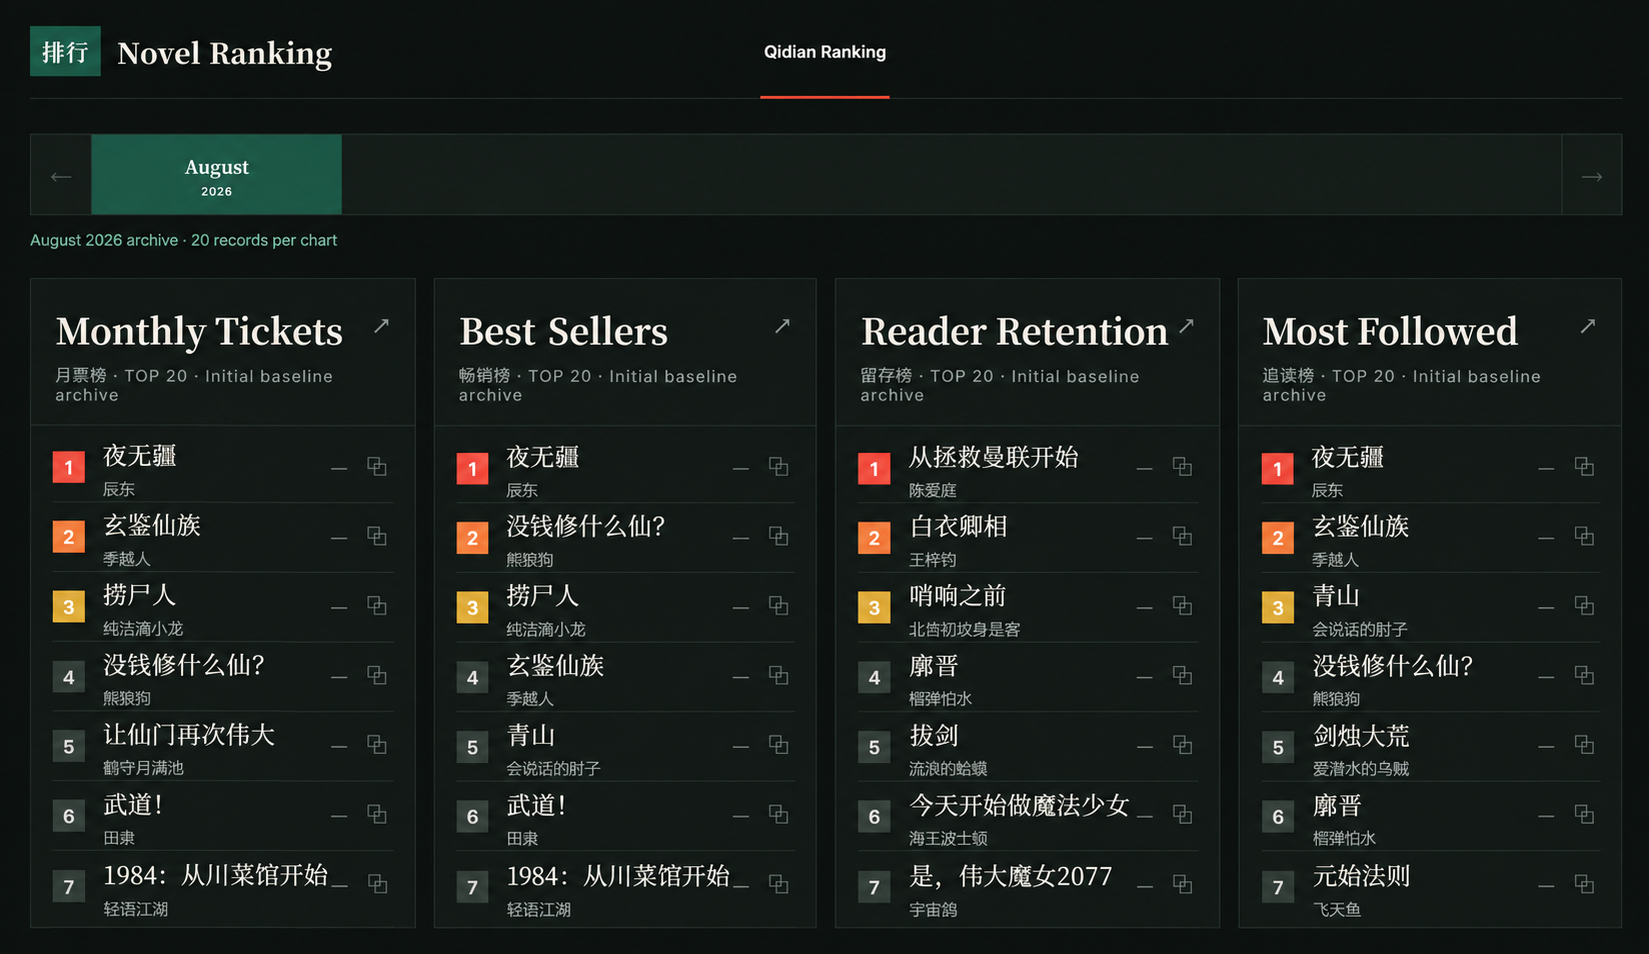
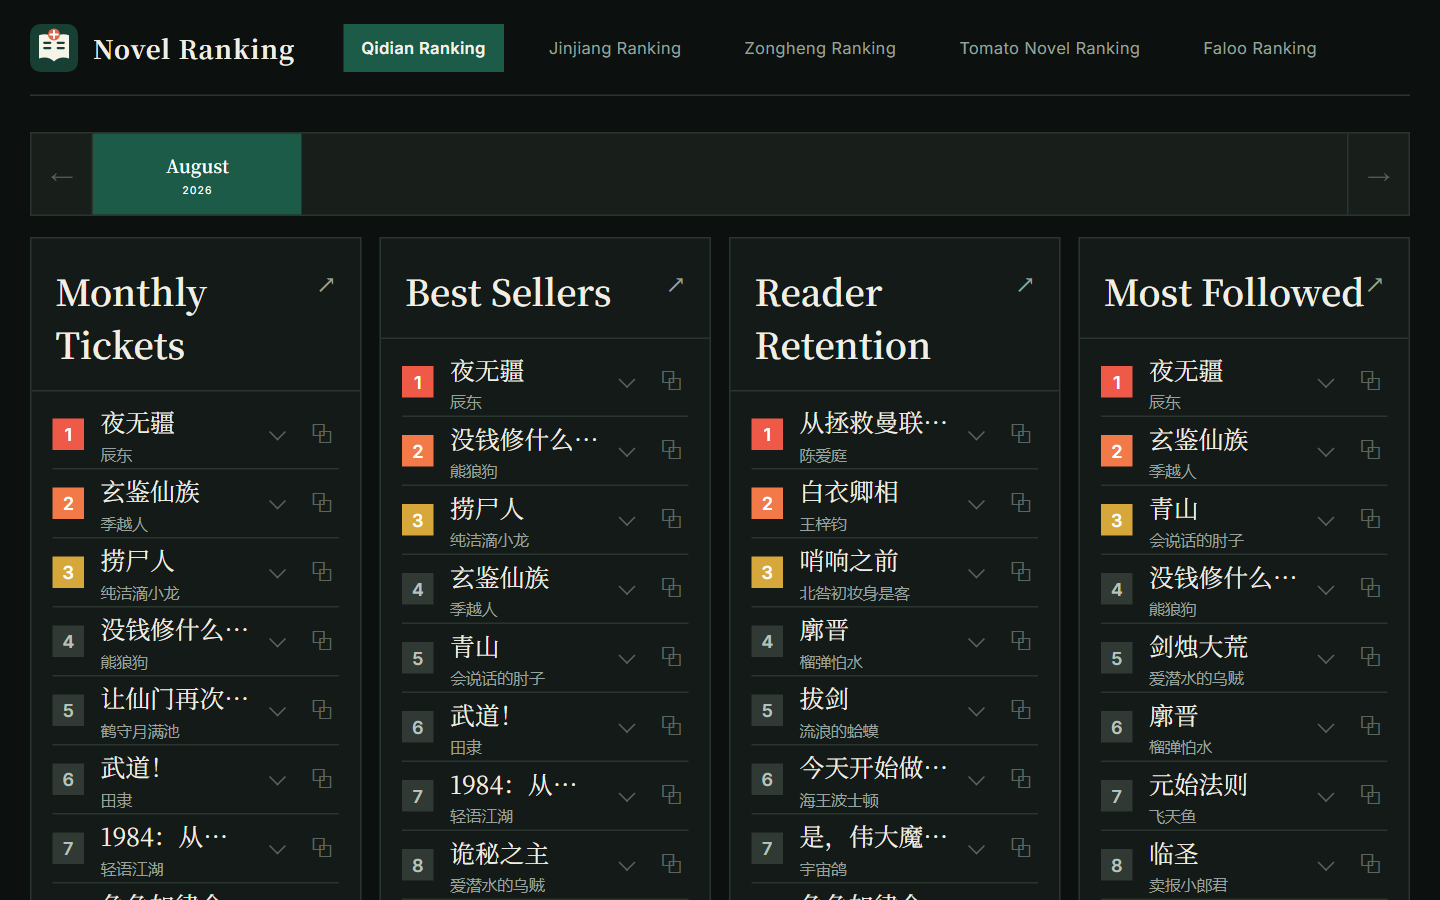
Feature novel ranking and film diary projects

diff --git a/site/index.html b/site/index.html
@@ -59,20 +59,12 @@
       <section id="projects" class="section" aria-labelledby="projects-title">
         <div class="section-heading">
           <span class="section-index">01</span>
-          <h2 id="projects-title">Projects in progress</h2>
+          <h2 id="projects-title">Projects</h2>
         </div>
 
         <article class="project-card">
-          <a class="project-visual" href="https://mirror.nducvu.men" aria-label="Open Mirror Reader">
-            <div class="browser-chrome">
-              <span></span><span></span><span></span>
-              <div class="browser-address">mirror.nducvu.men</div>
-            </div>
-            <div class="reader-preview">
-              <span class="preview-kicker">MIRROR READER</span>
-              <strong>A calm reading space<br>that stays focused.</strong>
-              <i></i><i></i><i></i><i class="short"></i>
-            </div>
+          <a class="project-visual project-screenshot" href="https://ranking.nducvu.men/" aria-label="Open Novel Ranking">
+            <img src="assets/novel-ranking.png" alt="Novel Ranking dashboard showing monthly Chinese web-novel charts" width="1440" height="900" loading="lazy" decoding="async">
           </a>
 
           <div class="project-content">
@@ -80,20 +72,19 @@
               <span class="badge"><span class="status-dot" aria-hidden="true"></span> Active</span>
               <span>2026</span>
             </div>
-            <h3><a href="https://mirror.nducvu.men">Mirror Reader <span aria-hidden="true">↗</span></a></h3>
-            <p>A personal reading app focused on content, comfort, and a distraction-free experience across devices.</p>
-            <ul class="tag-list" aria-label="Technology stack">
-              <li>FastAPI</li>
-              <li>Playwright</li>
-              <li>Nginx</li>
-              <li>Cloudflare</li>
+            <h3><a href="https://ranking.nducvu.men/">Novel Ranking <span aria-hidden="true">↗</span></a></h3>
+            <p>Explore monthly Chinese web-novel rankings across leading platforms and categories.</p>
+            <ul class="tag-list" aria-label="Project topics">
+              <li>Web novels</li>
+              <li>Rankings</li>
+              <li>Monthly history</li>
             </ul>
           </div>
         </article>
 
-        <article class="project-card ranking-card">
-          <a class="project-visual ranking-visual" href="https://ranking.nducvu.men" aria-label="Open Novel Ranking">
-            <img src="assets/novel-ranking.png" alt="Novel Ranking dashboard showing four ranked novel charts">
+        <article class="project-card">
+          <a class="project-visual project-screenshot" href="https://films.nducvu.men/" aria-label="Open Nhật Ký Xem Phim">
+            <img src="assets/film-diary.png" alt="Film diary dashboard with a featured movie, ratings, and a watchlist" width="1440" height="900" loading="lazy" decoding="async">
           </a>
 
           <div class="project-content">
@@ -101,12 +92,12 @@
               <span class="badge"><span class="status-dot" aria-hidden="true"></span> Active</span>
               <span>2026</span>
             </div>
-            <h3><a href="https://ranking.nducvu.men">Novel Ranking <span aria-hidden="true">↗</span></a></h3>
-            <p>A focused dashboard for exploring monthly novel charts, from tickets and sales to retention and follows.</p>
-            <ul class="tag-list" aria-label="Technology stack">
-              <li>Analytics</li>
-              <li>Dashboards</li>
-              <li>Data design</li>
+            <h3><a href="https://films.nducvu.men/">NHẬT KÝ XEM PHIM <span aria-hidden="true">↗</span></a></h3>
+            <p>A personal film diary for tracking watched movies, notes, ratings, and a watchlist.</p>
+            <ul class="tag-list" aria-label="Project topics">
+              <li>Film diary</li>
+              <li>Reviews</li>
+              <li>Watchlist</li>
             </ul>
           </div>
         </article>
@@ -123,7 +114,7 @@
           <dl class="fact-list">
             <div><dt>Focus</dt><dd>Useful web tools</dd></div>
             <div><dt>Approach</dt><dd>Simple, direct, easy to maintain</dd></div>
-            <div><dt>Now</dt><dd>Helping Novel Reader</dd></div>
+            <div><dt>Now</dt><dd>Novel rankings and film journaling</dd></div>
           </dl>
         </div>
       </section>

diff --git a/site/styles.css b/site/styles.css
@@ -277,46 +277,14 @@ button { font: inherit; }
     #141512;
   text-decoration: none;
 }
-.browser-chrome {
-  display: flex;
-  align-items: center;
-  gap: 6px;
-  height: 35px;
-  padding-inline: 11px;
-  background: #242520;
-  border: 1px solid #383a33;
-  border-radius: 7px 7px 0 0;
-}
-.browser-chrome > span { width: 7px; height: 7px; background: #65675d; border-radius: 50%; }
-.browser-address {
-  min-width: 0;
-  margin-left: 6px;
-  overflow: hidden;
-  color: #94968c;
-  font-size: 10px;
-  text-overflow: ellipsis;
-  white-space: nowrap;
-}
-.reader-preview {
-  min-height: 242px;
-  padding: 34px 34px 28px;
-  background: #1c1d19;
-  border: 1px solid #383a33;
-  border-top: 0;
-  border-radius: 0 0 7px 7px;
-}
-.preview-kicker { display: block; margin-bottom: 13px; color: #dc8f68; font-size: 9px; letter-spacing: .14em; }
-.reader-preview strong { display: block; margin-bottom: 28px; font-family: Georgia, serif; font-size: 25px; line-height: 1.2; }
-.reader-preview i { display: block; width: 100%; height: 5px; margin-top: 10px; background: #484a42; border-radius: 3px; }
-.reader-preview i.short { width: 62%; }
-
-.ranking-visual {
+.project-screenshot {
   display: flex;
   align-items: center;
   padding: 0;
   background: #0b110e;
 }
-.ranking-visual img {
+.project-screenshot img {
+  display: block;
   width: 100%;
   height: 100%;
   min-height: 330px;
@@ -383,9 +351,7 @@ button { font: inherit; }
   .site-brand { font-size: 15px; }
   .hero h1 { font-size: 42px; }
   .hero-copy { font-size: 16px; }
-  .reader-preview { padding-inline: 22px; }
-  .reader-preview strong { font-size: 21px; }
-  .project-visual { padding: 16px; }
+  .project-screenshot img { min-height: 300px; }
   .site-footer { align-items: flex-start; flex-direction: column; justify-content: center; gap: 5px; }
 }
 
